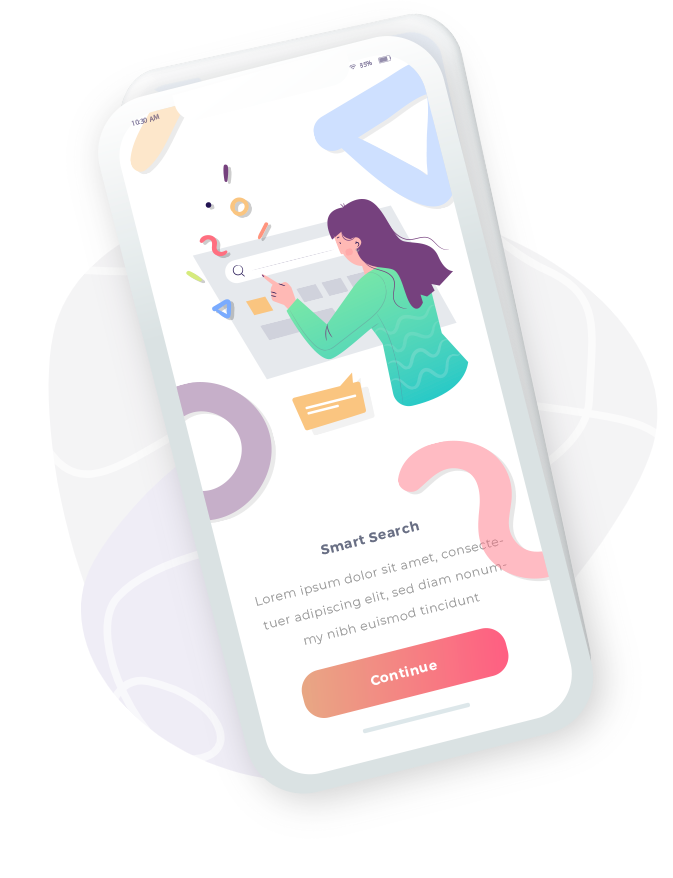
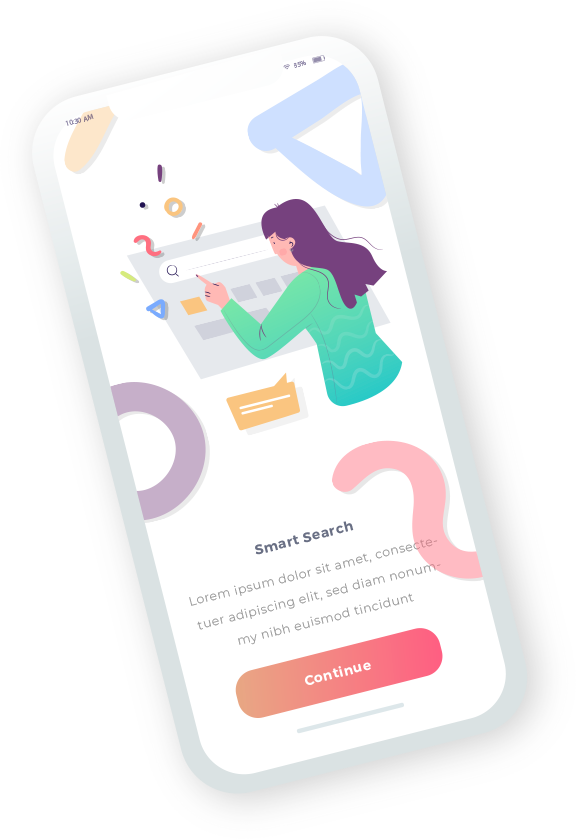
Добавил последний блок + полностью оптимизировал все приложение под адаптив

diff --git a/css/index.css b/css/index.css
@@ -10,6 +10,10 @@ article {
   align-items: center;
 }
 
+button {
+  cursor: pointer;
+}
+
 .wrapper-center {
   width: 100%;
   display: flex;
@@ -276,12 +280,14 @@ article {
 }
 
 .apps-features__phone-block {
+  position: relative;
   width: 576px;
   height: 839px;
-  margin-right: 10px;
+  margin-right: 40px;
 }
 
 .apps-features__phone-block .image {
+  position: absolute;
   width: 100%;
   height: 100%;
   object-fit: contain;
@@ -669,9 +675,146 @@ article {
   text-align: center;
 }
 
+.ultimate {
+  width: 100%;
+  margin-top: 188px;
+  display: flex;
+  justify-content: flex-end;
+}
+
 .void {
   width: 100%;
   height: 150px;
+}
+
+.ultimate_images {
+  position: relative;
+  width: 687px;
+  height: 774px;
+  overflow: hidden;
+  margin-top: 30px;
+}
+
+.ultimate_images .image {
+  position: absolute;
+  object-fit: contain;
+}
+
+.ultimate_images .image-first {
+  right: -40px;
+}
+
+.ultimate_images .image-second {
+  top: 98px;
+}
+
+.ultimate_images .image-third {
+  top: 77px;
+  left: 204px;
+}
+
+.ultimate-text {
+  width: 612px;
+}
+
+.ultimate-text .sub-title {
+  width: 392px;
+  color: #616368;
+  font-family: "Poppins";
+  font-size: 16px;
+  font-weight: 400;
+  font-style: normal;
+  letter-spacing: normal;
+  line-height: 26px;
+  text-align: left;
+  margin-top: 30px;
+}
+
+.ultimate-text .title {
+  width: 318px;
+  color: #242f51;
+  font-family: "Poppins";
+  font-size: 36px;
+  font-weight: bold;
+  font-style: normal;
+  letter-spacing: normal;
+  line-height: 46px;
+  text-align: left;
+}
+
+.two-blocks {
+  margin-top: 60px;
+  width: 100%;
+  display: flex;
+  justify-content: space-between;
+}
+
+.two-blocks__item {
+  width: 259px;
+}
+
+.two-blocks__icon {
+  width: 88px;
+  height: 88px;
+  display: flex;
+  justify-content: center;
+  align-items: center;
+  border-radius: 100%;
+}
+
+.two-blocks__title {
+  color: #242f51;
+  font-family: "Poppins";
+  font-size: 20px;
+  font-weight: bold;
+  font-style: normal;
+  letter-spacing: normal;
+  line-height: 58px;
+  text-align: left;
+}
+
+.two-blocks__text {
+  color: #616368;
+  font-family: "Poppins";
+  font-size: 16px;
+  font-weight: 400;
+  font-style: normal;
+  letter-spacing: normal;
+  line-height: 26px;
+  text-align: left;
+}
+
+.two-blocks__first {
+  background-color: #ffecef;
+}
+
+.two-blocks__second {
+  background-color: #e4ffee;
+}
+
+.two-blocks__third {
+  background-color: #fff6d3;
+}
+
+.two-blocks__fourth {
+  background-color: #f4f4ff;
+}
+
+.see-all {
+  width: 170px;
+  height: 57px;
+  border-radius: 29px;
+  background-color: #2500f9;
+  margin-top: 54px;
+  outline: none;
+  border: 0;
+  color: #ffffff;
+  font-family: "Poppins";
+  font-size: 16px;
+  font-weight: 700;
+  font-style: normal;
+  letter-spacing: normal;
+  line-height: 44px;
 }
 
 @media (max-width: 1200px) {
@@ -745,6 +888,16 @@ article {
   .three-blocks__item {
     margin: 20px;
   }
+
+  .ultimate {
+    flex-direction: column-reverse;
+    align-items: center;
+    margin-top: 80px;
+  }
+
+  .ultimate-text {
+    margin-top: 50px;
+  }
 }
 
 @media (max-width: 850px) {
@@ -810,6 +963,44 @@ article {
   .why-you .sub-title {
     width: 100%;
     padding: 0px 20px;
+  }
+
+  .ultimate_images {
+    width: 100%;
+    padding: 0px 20px;
+  }
+
+  .ultimate-text {
+    width: 100%;
+    padding: 0px 40px;
+  }
+
+  .ultimate-text .title {
+    width: 100%;
+    text-align: center;
+  }
+
+  .ultimate-text .sub-title {
+    width: 100%;
+    text-align: center;
+  }
+
+  .ultimate-text {
+    display: flex;
+    flex-direction: column;
+    align-items: center;
+  }
+
+  .two-blocks {
+    flex-wrap: wrap;
+  }
+
+  .two-blocks__item {
+    margin: 10px;
+  }
+
+  .hr {
+    margin: 50px 0px;
   }
 }
 

diff --git a/index.html b/index.html
@@ -73,6 +73,7 @@
         </section>
         <section class="apps-features">
           <div class="apps-features__phone-block">
+            <img class="image" src="img/Ellipse_1.png" />
             <img class="image" src="img/phone-two.png" />
           </div>
           <div class="apps-features__text-block">
@@ -246,6 +247,65 @@
                 news your blood tests.
               </p>
             </div>
+          </div>
+        </section>
+        <section class="ultimate">
+          <div class="ultimate-text">
+            <p class="title">Ultimate features that we built</p>
+            <p class="sub-title">
+              The rise of mobile devices transforms the way we consume
+              information entirely.
+            </p>
+            <div class="two-blocks">
+              <div class="two-blocks__item">
+                <div class="two-blocks__icon two-blocks__first">
+                  <img src="img/ultimate/1.png" class="icon" />
+                </div>
+                <p class="two-blocks__title">App Development</p>
+                <p class="two-blocks__text">
+                  Get your blood tests delivered at home collect a sample from
+                  the news your blood tests.
+                </p>
+              </div>
+              <div class="two-blocks__item">
+                <div class="two-blocks__icon two-blocks__second">
+                  <img src="img/ultimate/2.png" class="icon" />
+                </div>
+                <p class="two-blocks__title">UX Planing</p>
+                <p class="two-blocks__text">
+                  Get your blood tests delivered at home collect a sample from
+                  the news your blood tests.
+                </p>
+              </div>
+            </div>
+            <div class="two-blocks">
+              <div class="two-blocks__item">
+                <div class="two-blocks__icon two-blocks__third">
+                  <img src="img/ultimate/3.png" class="icon" />
+                </div>
+                <p class="two-blocks__title">Cloud Storage</p>
+                <p class="two-blocks__text">
+                  Get your blood tests delivered at home collect a sample from
+                  the news your blood tests.
+                </p>
+              </div>
+              <div class="two-blocks__item">
+                <div class="two-blocks__icon two-blocks__fourth">
+                  <img src="img/ultimate/4.png" class="icon" />
+                </div>
+                <p class="two-blocks__title">Customer support</p>
+                <p class="two-blocks__text">
+                  Get your blood tests delivered at home collect a sample from
+                  the news your blood tests.
+                </p>
+              </div>
+            </div>
+            <button class="see-all" type="button">See all</button>
+          </div>
+          <div class="ultimate_images">
+            <img src="img/Ellipse_6.png" class="image image-first" />
+            <img src="img/phone-three.png" class="image image-second" />
+            <img src="img/Phone_copy_4.png" class="image image-third" />
           </div>
         </section>
       </article>
